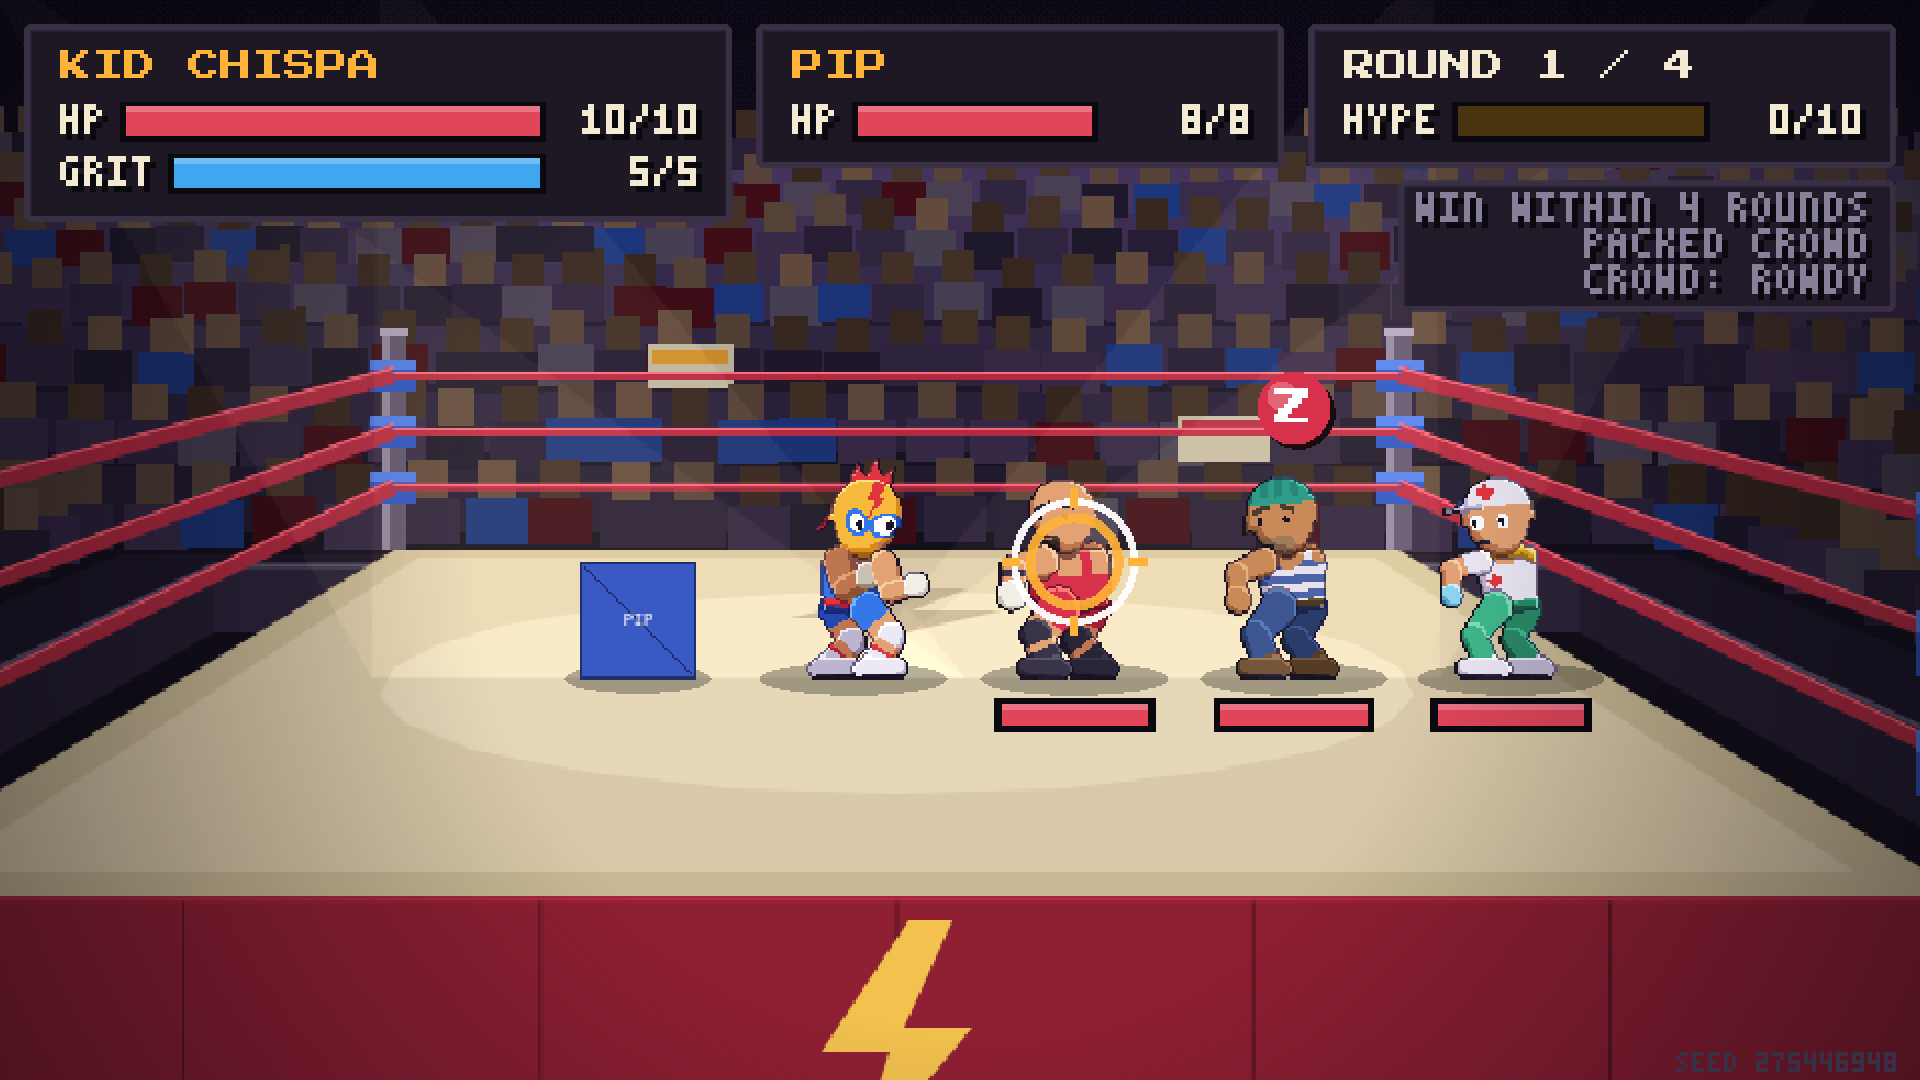
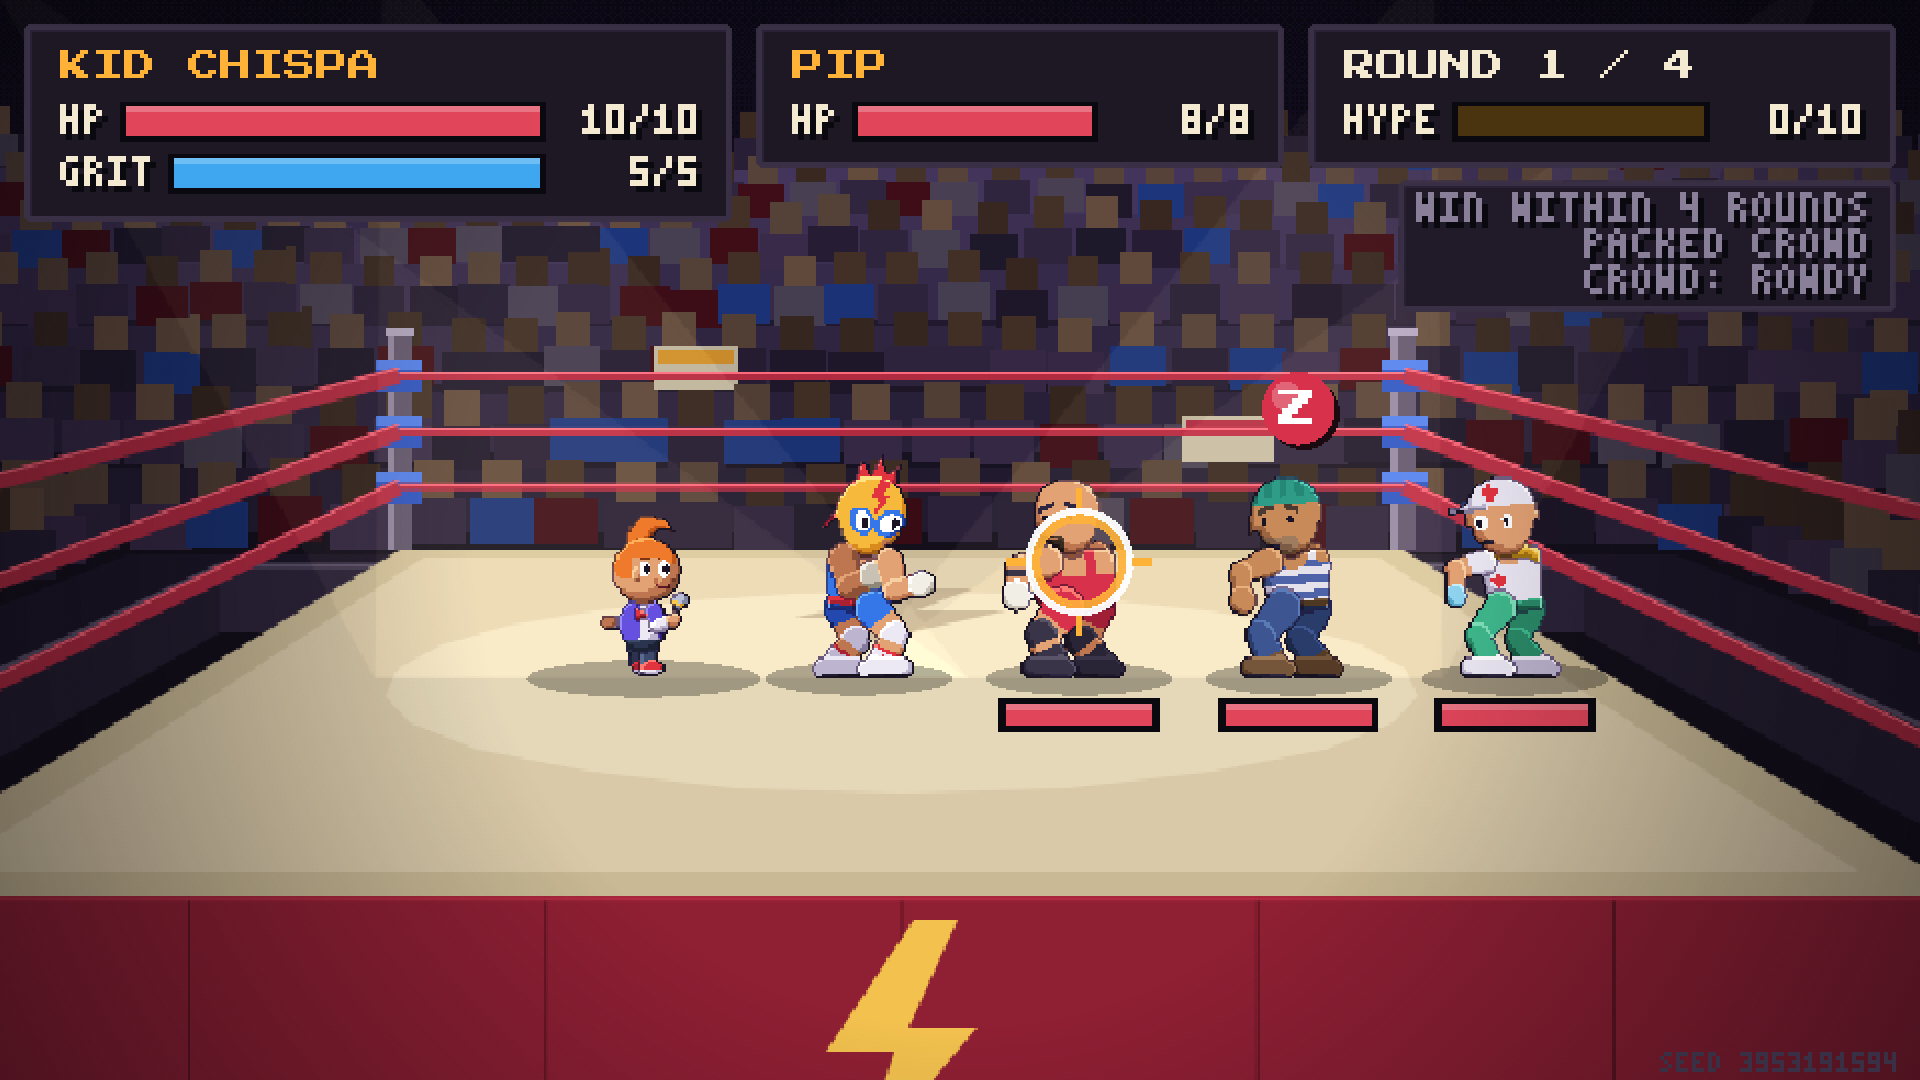
Pip: finished-style sprite sheet for the partner
Claude-Session: https://claude.ai/code/session_01QyvaQ22fJeH4nYnXb7669o

diff --git a/src/systems/opponent_art.ts b/src/systems/opponent_art.ts
@@ -1,5 +1,5 @@
-// The built-in opponents' finished art: frame-by-frame sprite sheets drawn by
-// tools/art/opponents.py (one row per animation, like Kid Chispa's). They
+// The built-in fighters' finished art (the opponents and Pip, the partner): frame-by-frame sprite sheets drawn by
+// tools/art/opponents.py and tools/art/pip.py (one row per animation, like Kid Chispa's). They
 // replace the placeholder boxes wherever an opponent appears, unless you gave
 // it a skin.
 
@@ -16,6 +16,7 @@ import cornerMedic from '../assets/opponents/corner_medic.png';
 import agentBrick from '../assets/opponents/agent_brick.png';
 import tugboatTony from '../assets/opponents/tugboat_tony.png';
 import rafterKing from '../assets/opponents/rafter_king.png';
+import pip from '../assets/opponents/pip.png';
 
 /** The usual rows: idle 4, walk 8, attack 6, hurt 3, knocked out 4, victory 4. */
 function look(url: string, frame: number, fps: Partial<Record<'idle' | 'walk' | 'chop', number>> = {}): SheetLook {
@@ -46,6 +47,7 @@ export const OPPONENT_ART: Record<string, SheetLook> = {
   agent_brick: look(agentBrick, 240, { idle: 4, walk: 8, chop: 9 }),
   tugboat_tony: look(tugboatTony, 144, { idle: 4, walk: 10, chop: 10 }),
   rafter_king: look(rafterKing, 144),
+  pip: look(pip, 120, { idle: 5, walk: 12, chop: 10 }),
 };
 
 export const artKey = (id: string) => `spr_art_${id}`;

diff --git a/tools/art/pip.py b/tools/art/pip.py
@@ -1,0 +1,179 @@
+"""Pip, Kid Chispa's partner: a pint-sized ringside announcer with a mic, a
+bowtie and a vest. Finished-style sheet on the shared rig (120-pixel frames,
+facing right like Kid Chispa).
+
+Usage: python3 tools/art/pip.py   (writes src/assets/opponents/pip.png)
+"""
+import math, os
+from rig import Part, capsule, ellipse, eye, ik, local, poly_at, ramp, rot, sheet, FLOOR
+
+PAL = dict(
+    skin=ramp("#f8cfa0", "#e3a274", "#bd7650", "#8c5036"),
+    hair=ramp("#ffb05a", "#f07a2c", "#c0561a", "#7e3410"),
+    vest=ramp("#9a8cff", "#6650e0", "#4834a8", "#2c1f70"),
+    shirt=ramp("#ffffff", "#ece8f4", "#bdb4cf", "#857c99"),
+    tie=ramp("#ff7a72", "#e2343f", "#aa2131", "#6f1522"),
+    pants=ramp("#5a6a90", "#3c4a6c", "#2a344e", "#1b2234"),
+    shoe=ramp("#ff7a72", "#e2343f", "#aa2131", "#6f1522"),
+    sole=ramp("#ffffff", "#ece8f4", "#bdb4cf", "#857c99"),
+    steel=ramp("#f4f6ff", "#b8bfd6", "#7f87a3", "#4f5670"),
+    dark=ramp("#4a3f5c", "#2e2640", "#221c30", "#17121f"),
+    gold=ramp("#fff2a0", "#f6c94b", "#d4981e", "#9a6812"),
+    mouth=ramp("#a8344a", "#7c2236", "#5a1826", "#3a0e18"),
+    freckle=ramp("#d98a5c", "#c0704a", "#9c5638", "#6c3a24"),
+)
+
+
+def pip(hop=0.0, dx=0.0, lean=0.0, squash=1.0, hand_f=(9, 2), hand_b=(-8, 4), mic="hand", mic_ang=-1.2,
+        mic_at=None, face="normal", mouth="smile", step=0.0, tuck=0.0):
+    """One pose. Hands are relative to their shoulders; mic: 'hand', 'free' (at mic_at) or None."""
+    parts = []
+    fx = 48 + dx
+    floor = FLOOR - 1
+    hip = (fx + rot(0, -10 * squash, lean)[0] * 0, floor - 9 * squash - hop)
+    # legs: short, sneakers
+    for side, z, k in (("back", 1, -1), ("front", 3, 1)):
+        s = step * k
+        foot = (fx + 3 * k * 0.6 + s * 4 - tuck * 2, floor - hop - tuck * 3.5 * (1.2 if k > 0 else 0.8))
+        if hop == 0 and tuck == 0:
+            foot = (foot[0], floor - max(0, s) * 2.5)
+        h = (hip[0] + k * 2.5, hip[1])
+        parts.append(Part(f"leg_{side}", z, capsule(h, (foot[0], foot[1] - 2.5), 3.0, 2.6),
+                          lambda x, y, d=(1 if side == "back" else 0): ("pants", d), light=2, rim=1))
+        sh = ellipse((foot[0] + 1.6, foot[1] - 1.6), 4.2, 2.6)
+        parts.append(Part(f"shoe_{side}", z + 0.2, sh,
+                          lambda x, y, fy=foot[1], d=(1 if side == "back" else 0): ("sole" if y > fy - 0.9 else "shoe", d),
+                          light=2, rim=1))
+    # torso: a round little body, vest open over a white shirt
+    tc = (hip[0] + rot(0, -7, lean)[0], hip[1] + rot(0, -7, lean)[1])
+    tl = local(tc, lean)
+
+    def torso_mat(x, y):
+        lx, ly = tl(x, y)
+        if ly > 5.2:
+            return ("pants", 0)
+        if abs(lx - 2.0) < 2.6 + max(0, ly) * 0.15:
+            if abs(lx - 2.0) < 0.5 and int(ly) in (-1, 2):
+                return ("dark", 0)  # buttons
+            return ("shirt", 0)
+        return ("vest", 0)
+    parts.append(Part("torso", 4, ellipse(tc, 8.2 * (2 - squash) ** 0.5, 9.0 * squash, lean), torso_mat, light=4))
+    bow = poly_at(tc, lean, [(-2.6, -5.2), (2.0, -3.2), (6.6, -5.2), (6.6, -0.8), (2.0, -2.8), (-2.6, -0.8)])
+    parts.append(Part("bowtie", 6.5, lambda x, y: in_bow(x, y, bow), lambda x, y: ("tie", 0), light=1.5, rim=0.8))
+    # head: big, with a ginger cowlick
+    hc = (tc[0] + rot(1.0, -17.5, lean * 1.3)[0], tc[1] + rot(1.0, -17.5, lean * 1.3)[1])
+    hl = local(hc, lean * 1.3)
+
+    def head_mat(x, y):
+        lx, ly = hl(x, y)
+        if (ly < -4.8 + max(0, lx - 3) * 0.5 and lx < 9.5) or (lx < -5.0 and ly < 2.5 - max(0, -lx - 9) * 2):
+            return ("hair", 0)
+        e = eye(lx, ly, 5.8, -0.5, 2.0, 2.8, face) or eye(lx, ly, -0.4, -0.5, 1.7, 2.8, face)
+        if e:
+            return (e, 0)
+        if face not in ("hurt", "ko") and -4.4 < ly < -3.4 and (abs(lx - 5.8) < 2.2 or abs(lx + 0.4) < 1.8):
+            return ("hair", 2)  # brows
+        if (lx - 3) ** 2 + (ly - 3.2) ** 2 < 0.8 or (lx - 8.3) ** 2 + (ly - 3.2) ** 2 < 0.8:
+            return ("freckle", 0)
+        if mouth == "open" and (lx - 5.5) ** 2 / 4.5 + (ly - 6.3) ** 2 / 2.6 < 1:
+            return ("mouth", 0)
+        if mouth == "smile" and abs(ly - 5.6 - ((lx - 5.6) / 2.6) ** 2 * -1.2) < 0.55 and abs(lx - 5.6) < 2.6:
+            return ("mouth", 0)
+        if mouth == "flat" and abs(ly - 6) < 0.5 and 3.6 < lx < 7.6:
+            return ("mouth", 0)
+        return ("skin", 0)
+    parts.append(Part("head", 6, ellipse(hc, 11.5, 10.8, lean * 1.3), head_mat, light=5))
+    cow = poly_at(hc, lean * 1.3, [(-7, -7), (-6, -14), (-1, -18.5), (6, -17), (10, -12.5), (4, -13.5), (1, -10)])
+    parts.append(Part("cowlick", 5.8, lambda x, y: in_bow(x, y, cow), lambda x, y: ("hair", 0), light=2, rim=1))
+    ear = (hc[0] + rot(-3.2, 1.2, lean)[0], hc[1] + rot(-3.2, 1.2, lean)[1])
+    parts.append(Part("ear", 6.3, ellipse(ear, 1.8, 2.4), lambda x, y: ("skin", 0), light=1.2, rim=0.9))
+    # arms (2-bone, short) and hands
+    hands = {}
+    for side, z, sx, tgt in (("back", 2, -3.5, hand_b), ("front", 7, 4.0, hand_f)):
+        shp = (tc[0] + rot(sx, -4.5, lean)[0], tc[1] + rot(sx, -4.5, lean)[1])
+        hand = (shp[0] + tgt[0], shp[1] + tgt[1])
+        el = ik(shp, hand, 5.2, 5.2, 1 if side == "front" else -1)
+        d = 1 if side == "back" else 0
+        parts.append(Part(f"upper_{side}", z, capsule(shp, el, 2.9, 2.5), lambda x, y, d=d: ("vest", d), light=2, rim=1))
+        parts.append(Part(f"fore_{side}", z + 0.1, capsule(el, hand, 2.5, 2.2), lambda x, y, d=d: ("shirt", d), light=2, rim=1))
+        parts.append(Part(f"hand_{side}", z + 0.3, ellipse(hand, 2.6, 2.6), lambda x, y, d=d: ("skin", d), light=1.5, rim=1))
+        hands[side] = hand
+    # the mic
+    if mic:
+        if mic == "hand":
+            base = hands["front"]
+            a = mic_ang
+        else:
+            base = (fx + mic_at[0], floor + mic_at[1])
+            a = mic_at[2]
+        tip = (base[0] + math.cos(a) * 6.5, base[1] + math.sin(a) * 6.5)
+        butt = (base[0] - math.cos(a) * 2.5, base[1] - math.sin(a) * 2.5)
+        z = 7.2 if mic == "hand" else 9
+        parts.append(Part("mic_handle", z - 0.1, capsule(butt, tip, 1.3, 1.6), lambda x, y: ("dark", 0), light=1, rim=0.7))
+        ml = local(tip, a)
+        parts.append(Part("mic_head", z, ellipse(tip, 3.0, 3.0),
+                          lambda x, y: ("gold" if abs(ml(x, y)[0] + 1.4) < 0.6 else "steel", 0), light=2, rim=1))
+        if mic == "hand":
+            parts.append(Part("grip", z + 0.1, ellipse(base, 2.4, 2.2), lambda x, y: ("skin", 0), light=1.2, rim=0.9))
+    return parts
+
+
+def in_bow(x, y, pts):
+    from rig import in_poly
+    return in_poly(x, y, pts)
+
+
+def rows():
+    idle = [pip(hop=0, squash=s, hand_f=(6, 3 - b), mic_ang=-1.25 - b * 0.05) for s, b in
+            ((1.0, 0), (0.97, 0.5), (0.95, 1), (0.97, 0.5))]
+    walk = []
+    for i in range(8):
+        t = i / 8 * math.tau
+        h = abs(math.sin(t)) * 4
+        walk.append(pip(hop=h, step=math.cos(t), squash=1 - (0.06 if h < 0.5 else 0), lean=0.08,
+                        hand_f=(6, 2 + math.sin(t)), hand_b=(-7, 4 - math.sin(t)), tuck=0.0))
+    # Mic Drop: crouch, spring up mic high, flick it forward, it drops, land, ta-da
+    attack = [
+        pip(squash=0.82, lean=0.05, hand_f=(3, 6), mic_ang=-1.4, mouth="flat"),
+        pip(hop=14, squash=1.08, tuck=0.6, hand_f=(3, -10), hand_b=(-8, -3), mic_ang=-1.6, mouth="open"),
+        pip(hop=20, tuck=0.8, lean=0.1, hand_f=(9, -7), hand_b=(-8, -2), mic_ang=-0.6, mouth="open"),
+        pip(hop=16, tuck=0.5, lean=0.15, hand_f=(10, 1), hand_b=(-8, 0), mic="free", mic_at=(24, -14, 1.6), mouth="open"),
+        pip(hop=3, squash=0.9, lean=0.05, hand_f=(10, 0), mic="free", mic_at=(25, -2, 1.9), mouth="smile"),
+        pip(squash=0.94, hand_f=(9, -9), hand_b=(-8, -6), mic=None, face="happy", mouth="open"),
+    ]
+    hurt = [
+        pip(dx=-5, lean=-0.35, squash=0.9, hand_f=(3, -8), hand_b=(-6, -8), mic_ang=-2.2, face="hurt", mouth="open"),
+        pip(dx=-3, lean=-0.22, hand_f=(5, -4), hand_b=(-7, -5), mic_ang=-1.9, face="hurt", mouth="open"),
+        pip(dx=-1, lean=-0.08, hand_f=(6, 1), face="hurt", mouth="flat"),
+    ]
+    ko_poses = [
+        (dict(dx=-4, lean=-0.4, hand_f=(3, -9), hand_b=(-6, -9), mic_ang=-2.4, face="ko", mouth="open"), {}),
+        (dict(dx=-8, lean=-0.6, hop=3, hand_f=(2, -9), hand_b=(-6, -9), mic="free", mic_at=(10, -30, -0.5), face="ko", mouth="open"),
+         dict(rotate=-0.5, pivot=(40, FLOOR))),
+        (dict(dx=-10, squash=0.9, hand_f=(4, -8), hand_b=(-6, -8), mic="free", mic_at=(14, -12, 2.6), face="ko", mouth="open"),
+         dict(rotate=-1.2, pivot=(38, FLOOR), fit=True)),
+        (dict(dx=-10, squash=0.9, hand_f=(6, -6), hand_b=(-6, -7), mic=None, face="ko", mouth="flat"),
+         dict(rotate=-1.5, pivot=(38, FLOOR), fit=True)),
+    ]
+    win = [
+        pip(hand_f=(4, -11), hand_b=(-7, -9), mic_ang=-1.5, face="happy", mouth="open"),
+        pip(hop=7, tuck=0.4, hand_f=(3, -12), hand_b=(-6, -10), mic_ang=-1.6, face="happy", mouth="open"),
+        pip(hop=10, tuck=0.6, hand_f=(4, -12), hand_b=(-6, -10), mic_ang=-1.4, face="happy", mouth="open"),
+        pip(hop=3, hand_f=(5, -10), hand_b=(-7, -8), mic_ang=-1.5, face="happy", mouth="smile"),
+    ]
+    return [
+        [(p, {}) for p in idle],
+        [(p, {}) for p in walk],
+        [(p, {}) for p in attack],
+        [(p, {}) for p in hurt],
+        [(pip(**kw), opts) for kw, opts in ko_poses],
+        [(p, {}) for p in win],
+    ]
+
+
+if __name__ == "__main__":
+    img = sheet(rows(), PAL, 1.25)  # a touch bigger than the 96-pixel grid, drawn with more pixels
+    out = os.path.join(os.path.dirname(__file__), "..", "..", "src", "assets", "opponents", "pip.png")
+    img.save(out)
+    big = img.resize((img.width * 3, img.height * 3), 0)
+    print("wrote pip", img.size)

diff --git a/release/itch/STORE_PAGE.md b/release/itch/STORE_PAGE.md
@@ -59,7 +59,7 @@ Everything to fill in on itch.io's "Create a new project" form, in the form's or
 >
 > Your battles live in this browser on this device: SHARE the ones you want to keep as a backup.
 >
-> Early build: Kid Chispa and every opponent have their finished art; his partner Pip is still a placeholder.
+> Early build: the whole built-in cast has its finished art; more fighters, rings and modes are on the way.
 
 | Field | Value |
 |---|---|
